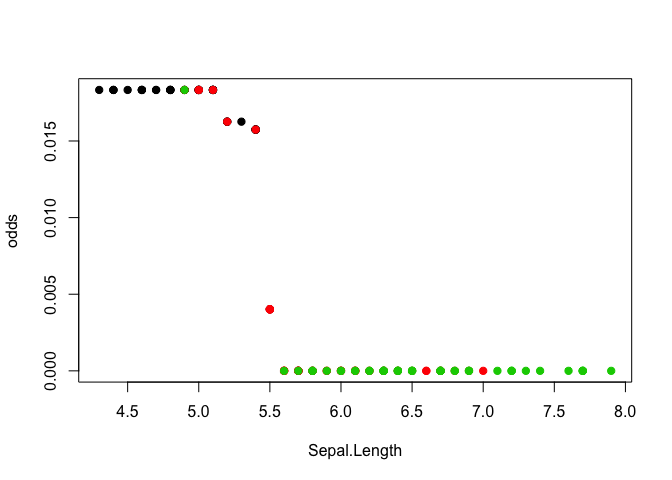
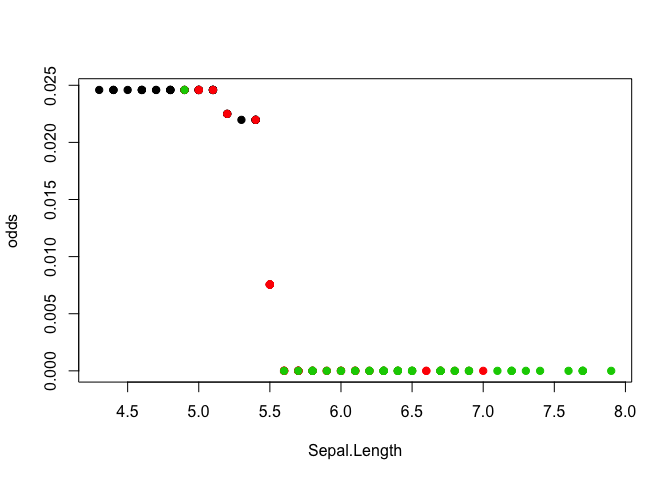
quick formatting fix

diff --git a/quickpeak/README.md b/quickpeak/README.md
@@ -38,7 +38,8 @@ custom_predict <- function(model, newdata){
     predict(model, newdata)$predictions
 }
 
-# Note that we must exclude the column that contains our outcome vector from the training dataset prior to passing it to qpeak.
+# Note that we must exclude the column that contains our outcome vector
+# from the training dataset prior to passing it to qpeak.
 
 qp <- qpeak(model=model, X=iris[,-5], feature="Sepal.Length", predict=custom_predict)
 
@@ -46,12 +47,12 @@ head(qp)
 ```
 
     ##   Sepal.Length       odds
-    ## 1          5.1 0.01832994
-    ## 2          4.9 0.01832994
-    ## 3          4.7 0.01832994
-    ## 4          4.6 0.01832994
-    ## 5          5.0 0.01832994
-    ## 6          5.4 0.01574403
+    ## 1          5.1 0.02459016
+    ## 2          4.9 0.02459016
+    ## 3          4.7 0.02459016
+    ## 4          4.6 0.02459016
+    ## 5          5.0 0.02459016
+    ## 6          5.4 0.02197241
 
 The function returns odds such that higher values indicate greater affinity towards output of interest. We can now visualise the "decision vector" in our iris model.
 
